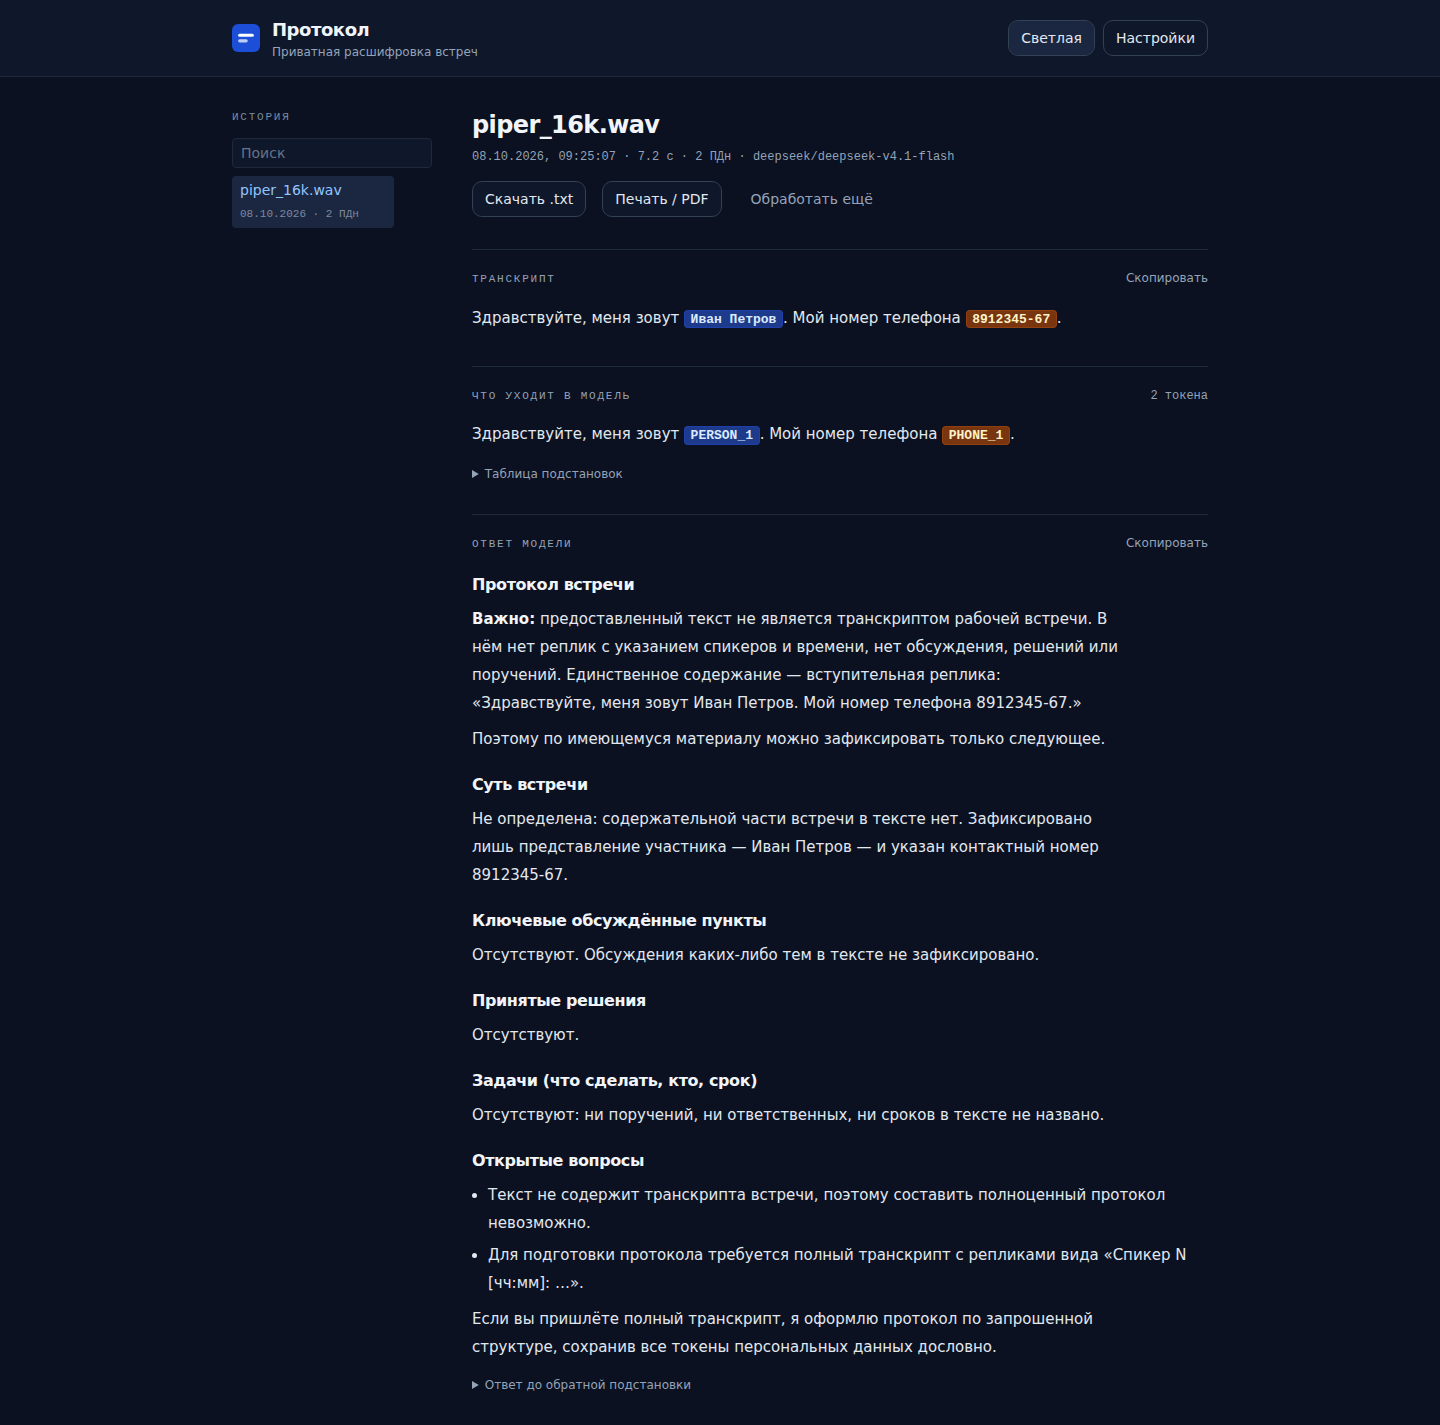
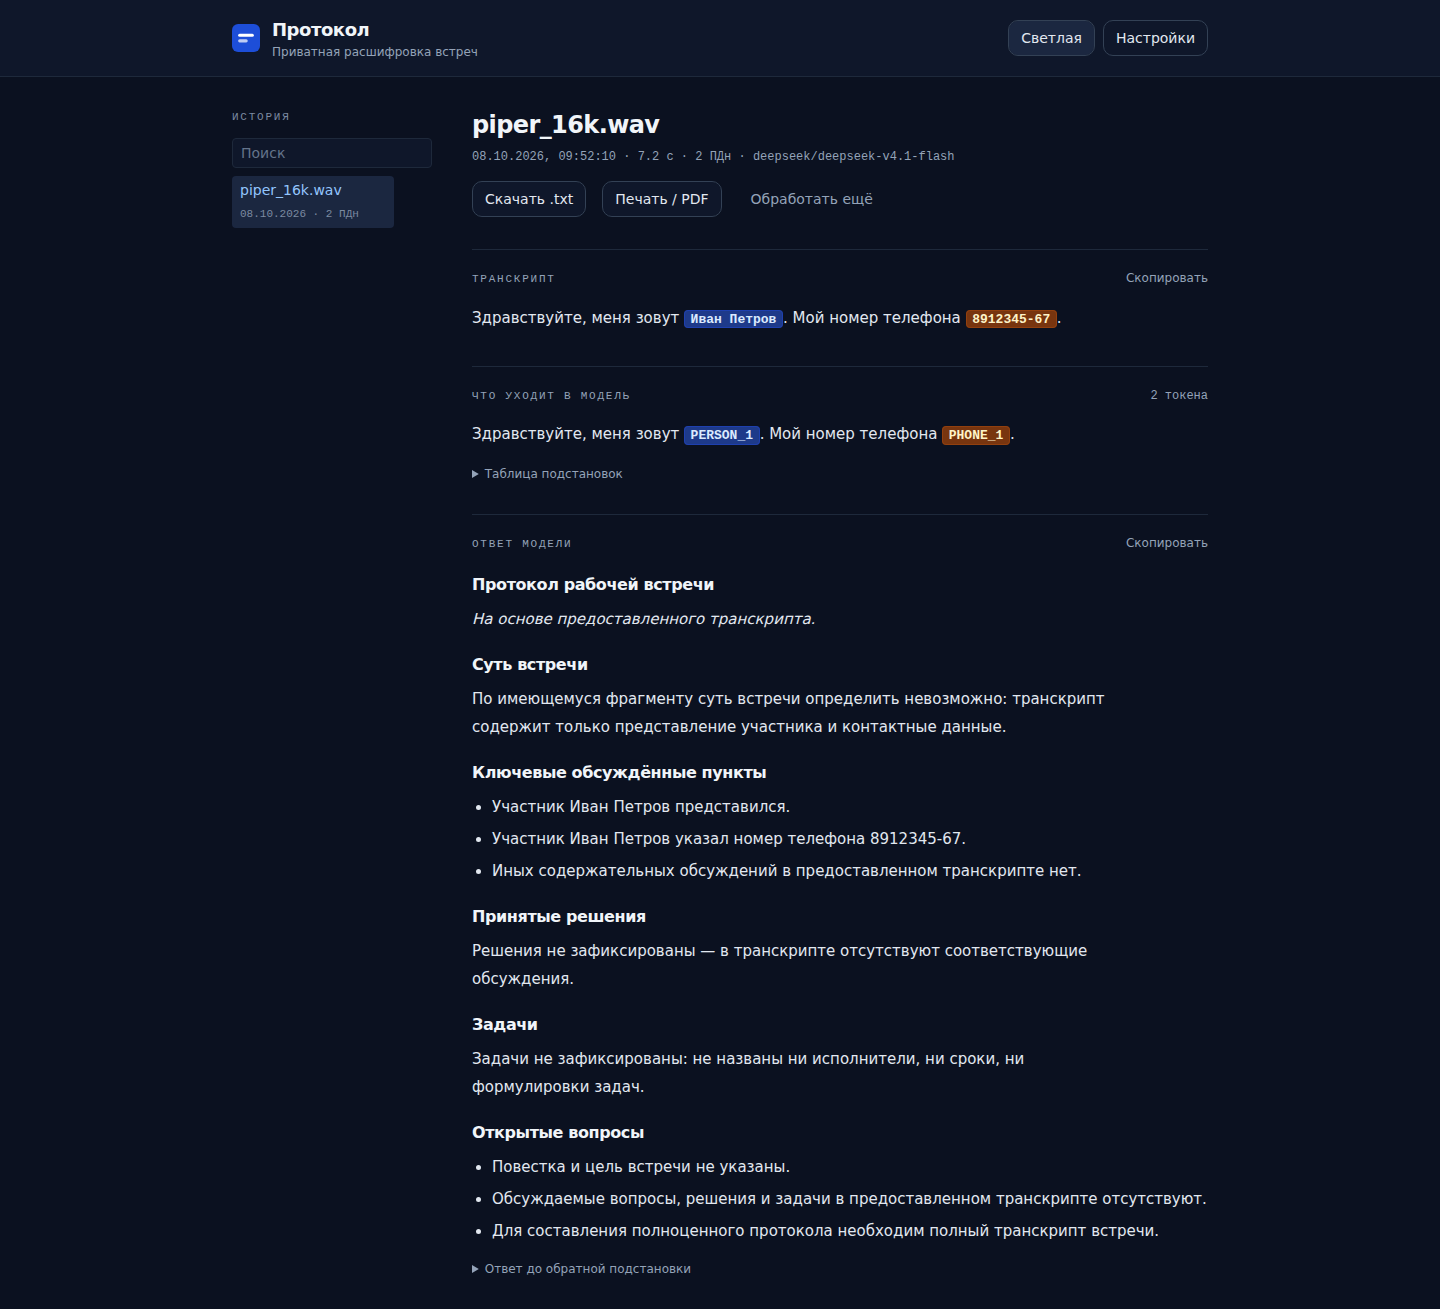
feat: полный рендер Markdown в ответе модели
Модели отвечают Markdown целиком, а рендерер знал только заголовки и
дефисные списки: таблицы, нумерованные списки, код, цитаты и ссылки лезли
на страницу сырыми (| Задача | … |, 1., >, `…`). Расширил разбор до
GFM-подмножества, которое реально выдаёт протокол; рендерер по-прежнему
рукописный и без зависимостей, чтобы держать типографику документа.

diff --git a/web/src/ui.tsx b/web/src/ui.tsx
@@ -80,82 +80,239 @@ export function CopyButton({ text, label = "Скопировать" }: { text: s
   );
 }
 
-/** Inline emphasis for the model's light Markdown. */
-function inline(text: string): ReactNode[] {
+// The model answers in Markdown, so the renderer covers the constructs a
+// protocol actually uses: headings, bullet and numbered lists, tables, code,
+// quotes, rules, and inline emphasis/link/code. Hand-rolled to keep the app
+// dependency-free and to keep control of the document's own typography.
+const INLINE =
+  /(`[^`]+`)|(\*\*[^*]+\*\*)|(__[^_]+__)|(\*[^*\n]+\*)|(_[^_\n]+_)|(~~[^~]+~~)|(\[[^\]]+\]\([^)\s]+\))/g;
+
+const TEXT = "text-[15px] leading-7 text-slate-800";
+
+/** Inline spans: code, bold, italic, strikethrough, links. */
+function renderInline(text: string): ReactNode {
   const nodes: ReactNode[] = [];
-  const pattern = /\*\*(.+?)\*\*|\*(.+?)\*/g;
   let last = 0;
   let key = 0;
-  let match: RegExpExecArray | null = pattern.exec(text);
+  INLINE.lastIndex = 0;
+  let match: RegExpExecArray | null = INLINE.exec(text);
   while (match !== null) {
     if (match.index > last) nodes.push(text.slice(last, match.index));
-    if (match[1] !== undefined) {
+    const token = match[0];
+    if (token.startsWith("`")) {
+      nodes.push(
+        <code key={key++} className="rounded bg-slate-100 px-1 py-0.5 font-mono text-[0.85em] text-slate-700">
+          {token.slice(1, -1)}
+        </code>,
+      );
+    } else if (token.startsWith("**") || token.startsWith("__")) {
       nodes.push(
         <strong key={key++} className="font-semibold text-slate-900">
-          {match[1]}
+          {token.slice(2, -2)}
         </strong>,
       );
+    } else if (token.startsWith("~~")) {
+      nodes.push(<del key={key++}>{token.slice(2, -2)}</del>);
+    } else if (token.startsWith("[")) {
+      const link = /^\[([^\]]+)\]\(([^)\s]+)\)$/.exec(token);
+      nodes.push(
+        <a
+          key={key++}
+          href={link ? link[2] : "#"}
+          target="_blank"
+          rel="noreferrer"
+          className="text-blue-700 underline decoration-slate-300 underline-offset-2"
+        >
+          {link ? link[1] : token}
+        </a>,
+      );
     } else {
-      nodes.push(<em key={key++}>{match[2]}</em>);
+      nodes.push(<em key={key++}>{token.slice(1, -1)}</em>);
     }
-    last = match.index + match[0].length;
-    match = pattern.exec(text);
+    last = match.index + token.length;
+    match = INLINE.exec(text);
   }
   if (last < text.length) nodes.push(text.slice(last));
   return nodes;
 }
 
-/** The protocol arrives as light Markdown; render it as document text rather
- *  than showing the model's `**` and `-` markers verbatim. */
+function parseRow(line: string): string[] {
+  let value = line.trim();
+  if (value.startsWith("|")) value = value.slice(1);
+  if (value.endsWith("|")) value = value.slice(0, -1);
+  return value.split("|").map((cell) => cell.trim());
+}
+
+const isTableSeparator = (line: string): boolean =>
+  line.includes("-") && /^\s*\|?[\s:|-]+\|?\s*$/.test(line) && !/[^\s:|-]/.test(line);
+
+/** Renders the model's Markdown as the document's own typography. */
 export function Markdown({ text }: { text: string }) {
+  const lines = text.replace(/\r\n?/g, "\n").split("\n");
   const blocks: ReactNode[] = [];
-  let list: string[] = [];
-  const flush = () => {
-    if (list.length === 0) return;
+  const paragraph: string[] = [];
+  let i = 0;
+
+  const flushParagraph = () => {
+    if (paragraph.length === 0) return;
     blocks.push(
-      <ul key={`ul-${blocks.length}`} className="ml-4 mt-2 list-disc space-y-1 text-[15px] leading-7 text-slate-800">
-        {list.map((item, index) => (
-          <li key={index}>{inline(item)}</li>
-        ))}
-      </ul>,
+      <p key={`p${i}`} className={`mt-2 max-w-[68ch] ${TEXT}`}>
+        {renderInline(paragraph.join(" "))}
+      </p>,
     );
-    list = [];
+    paragraph.length = 0;
   };
-  text
-    .replace(/\r\n/g, "\n")
-    .split("\n")
-    .forEach((raw, index) => {
-      const line = raw.trim();
-      if (line === "") {
-        flush();
-        return;
+
+  const takeWhile = (test: (line: string) => RegExpExecArray | null, items: string[]) => {
+    while (i < lines.length) {
+      const match = test(lines[i].trim());
+      if (!match) break;
+      items.push(match[1]);
+      i++;
+    }
+  };
+
+  while (i < lines.length) {
+    const raw = lines[i];
+    const line = raw.trim();
+
+    if (line === "") {
+      flushParagraph();
+      i++;
+      continue;
+    }
+
+    if (/^```/.test(line)) {
+      flushParagraph();
+      const code: string[] = [];
+      i++;
+      while (i < lines.length && !/^```/.test(lines[i].trim())) {
+        code.push(lines[i]);
+        i++;
       }
-      const bullet = /^[-*•]\s+(.*)$/.exec(line);
-      if (bullet) {
-        list.push(bullet[1]);
-        return;
-      }
-      flush();
-      if (/^(?:-{3,}|\*{3,}|_{3,})$/.test(line)) {
-        blocks.push(<hr key={`hr-${index}`} className="my-5 border-t border-slate-200" />);
-        return;
-      }
-      const heading = /^(#{1,6})\s+(.*)$/.exec(line) ?? /^\*\*(.+?)\*\*:?$/.exec(line);
-      if (heading) {
-        blocks.push(
-          <h4 key={`h-${index}`} className="mt-5 font-semibold tracking-tight text-slate-900">
-            {inline(heading[2] ?? heading[1])}
-          </h4>,
-        );
-        return;
+      i++;
+      blocks.push(
+        <pre
+          key={`c${i}`}
+          className="mt-2 max-w-[68ch] overflow-x-auto rounded border border-slate-200 bg-slate-50 p-3 font-mono text-[13px] leading-6 text-slate-700"
+        >
+          <code>{code.join("\n")}</code>
+        </pre>,
+      );
+      continue;
+    }
+
+    if (line.includes("|") && i + 1 < lines.length && isTableSeparator(lines[i + 1])) {
+      flushParagraph();
+      const header = parseRow(line);
+      const rows: string[][] = [];
+      i += 2;
+      while (i < lines.length && lines[i].trim().includes("|") && lines[i].trim() !== "") {
+        rows.push(parseRow(lines[i]));
+        i++;
       }
       blocks.push(
-        <p key={`p-${index}`} className="mt-2 max-w-[68ch] text-[15px] leading-7 text-slate-800">
-          {inline(line)}
-        </p>,
+        <div key={`t${i}`} className="mt-3 max-w-[68ch] overflow-x-auto">
+          <table className={`w-full border-collapse ${TEXT}`}>
+            <thead>
+              <tr>
+                {header.map((cell, column) => (
+                  <th
+                    key={column}
+                    className="border-b border-slate-200 px-2 py-1 text-left font-semibold text-slate-900"
+                  >
+                    {renderInline(cell)}
+                  </th>
+                ))}
+              </tr>
+            </thead>
+            <tbody>
+              {rows.map((row, index) => (
+                <tr key={index}>
+                  {row.map((cell, column) => (
+                    <td key={column} className="border-b border-slate-100 px-2 py-1 align-top">
+                      {renderInline(cell)}
+                    </td>
+                  ))}
+                </tr>
+              ))}
+            </tbody>
+          </table>
+        </div>,
       );
-    });
-  flush();
+      continue;
+    }
+
+    const heading = /^(#{1,6})\s+(.*)$/.exec(line) ?? /^\*\*(.+?)\*\*:?$/.exec(line);
+    if (heading) {
+      flushParagraph();
+      blocks.push(
+        <h4 key={`h${i}`} className="mt-5 font-semibold tracking-tight text-slate-900">
+          {renderInline(heading[2] ?? heading[1])}
+        </h4>,
+      );
+      i++;
+      continue;
+    }
+
+    if (/^(?:-{3,}|\*{3,}|_{3,})$/.test(line)) {
+      flushParagraph();
+      blocks.push(<hr key={`r${i}`} className="my-5 border-t border-slate-200" />);
+      i++;
+      continue;
+    }
+
+    if (/^>\s?/.test(line)) {
+      flushParagraph();
+      const quote: string[] = [];
+      while (i < lines.length && /^>\s?/.test(lines[i].trim())) {
+        quote.push(lines[i].trim().replace(/^>\s?/, ""));
+        i++;
+      }
+      blocks.push(
+        <blockquote key={`q${i}`} className="mt-2 max-w-[68ch] border-l-2 border-slate-300 pl-4 text-slate-600">
+          {renderInline(quote.join(" "))}
+        </blockquote>,
+      );
+      continue;
+    }
+
+    const ordered = /^\d+[.)]\s+(.*)$/.exec(line);
+    if (ordered) {
+      flushParagraph();
+      const items = [ordered[1]];
+      i++;
+      takeWhile((item) => /^\d+[.)]\s+(.*)$/.exec(item), items);
+      blocks.push(
+        <ol key={`o${i}`} className={`ml-5 mt-2 list-decimal space-y-1 ${TEXT}`}>
+          {items.map((item, index) => (
+            <li key={index}>{renderInline(item)}</li>
+          ))}
+        </ol>,
+      );
+      continue;
+    }
+
+    const bullet = /^[-*•+]\s+(.*)$/.exec(line);
+    if (bullet) {
+      flushParagraph();
+      const items = [bullet[1]];
+      i++;
+      takeWhile((item) => /^[-*•+]\s+(.*)$/.exec(item), items);
+      blocks.push(
+        <ul key={`u${i}`} className={`ml-5 mt-2 list-disc space-y-1 ${TEXT}`}>
+          {items.map((item, index) => (
+            <li key={index}>{renderInline(item)}</li>
+          ))}
+        </ul>,
+      );
+      continue;
+    }
+
+    paragraph.push(line);
+    i++;
+  }
+  flushParagraph();
   return <div>{blocks}</div>;
 }
 

diff --git a/DESIGN.md b/DESIGN.md
@@ -143,7 +143,7 @@ File name as the title (`1.5rem` semibold, wraps), one mono meta line beneath, t
 The first run teaches the product, not just the drop zone: the brand mark, a value headline («Расшифровка встреч, которая не покидает ваш компьютер»), a one-line privacy promise, the three pipeline steps as mono labels (`01 · АУДИО  02 · МАСКИРОВАНИЕ  03 · ПРОТОКОЛ`), the primary CTA, and the accepted formats. One dashed target, now with a reason to trust it.
 
 ### Model reply
-The protocol arrives from the model as light Markdown. It is rendered, not dumped: `**bold**` lines become section subheadings, `- ` runs become bullet lists, inline `**`/`*` become strong/em, and `---` becomes a hairline. The raw `**` and `-` markers never reach the page.
+The protocol arrives from the model as Markdown. It is rendered, not dumped: `#`/`**bold**` lines become section subheadings, `- ` runs become bullet lists, `1.` runs become numbered lists, `| … |` + `|---|` becomes a real table, `> ` a quote, ```` ``` ```` a code block, `---` a hairline, and inline `**`/`*`/`` ` ``/`[..](..)` become strong/em/code/link. The raw Markdown markers never reach the page. The renderer is hand-rolled — a bounded GFM subset, no dependency — so the protocol keeps the document's own type instead of a library's defaults.
 
 ### Section
 A hairline above, a mono uppercase label, an optional right-aligned meta (token count, "Скопировать"), then the content. This replaces the card.
